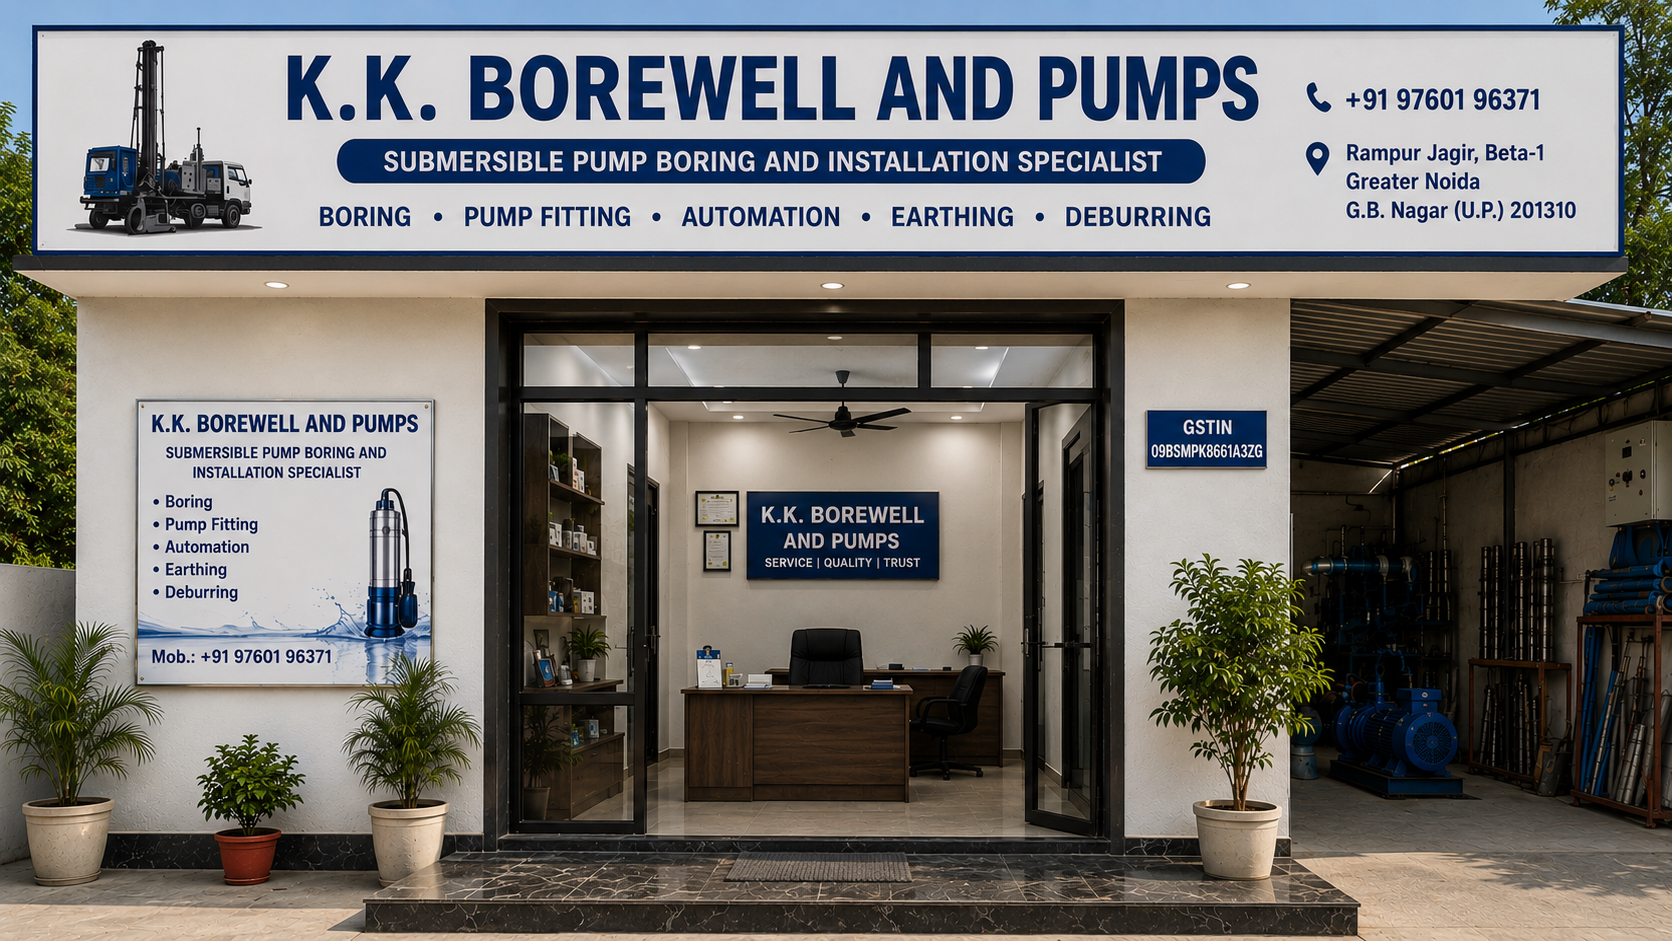
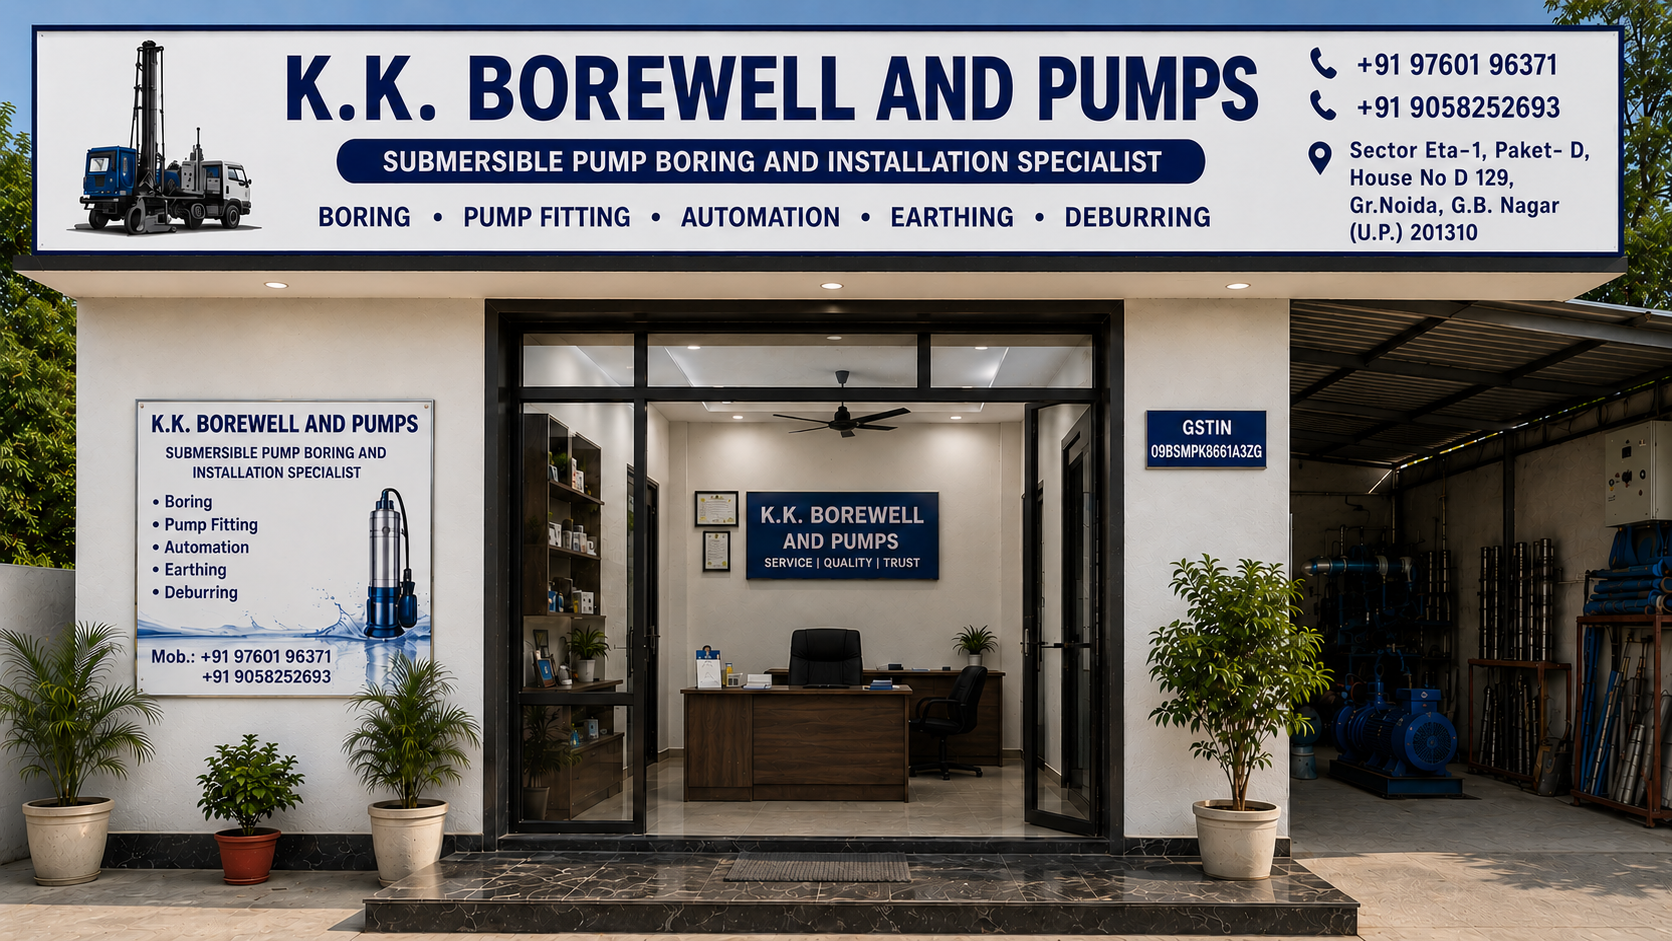
some changes

diff --git a/components/ServicesPreview.tsx b/components/ServicesPreview.tsx
@@ -14,7 +14,7 @@ export default function ServicesPreview() {
                             What we do
                         </p>
                         <h2 className="mt-3 font-display text-3xl font-bold text-white sm:text-4xl">
-                            Services, not sales
+                            Services
                         </h2>
                         <p className="mt-4 font-body text-white/70">
                             We don&apos;t sell pumps off a shelf — we install, automate,

diff --git a/components/Services.tsx b/components/Services.tsx
@@ -45,7 +45,7 @@ export default function Services() {
             What we do
           </p>
           <h2 className="mt-3 font-display text-3xl font-bold text-white sm:text-4xl">
-            Services, not sales
+            Services
           </h2>
           <p className="mt-4 font-body text-white/70">
             We don&apos;t sell pumps off a shelf — we install, automate, wire and

diff --git a/lib/business.ts b/lib/business.ts
@@ -4,7 +4,7 @@ export const business = {
   phone: "9760196371",
   phoneDisplay: "+91 9760196371",
   email: "help-kkborewell@gmail.com",
-  address: "Rampur Jagir, Beta-1, Greater Noida, G.B. Nagar",
+  address: "Sector Eta-1, Pocket D,Greater Noida, G.B. Nagar, Uttar Pradesh 201308",
   whatsappBase: "https://wa.me/919760196371",
 };
 
